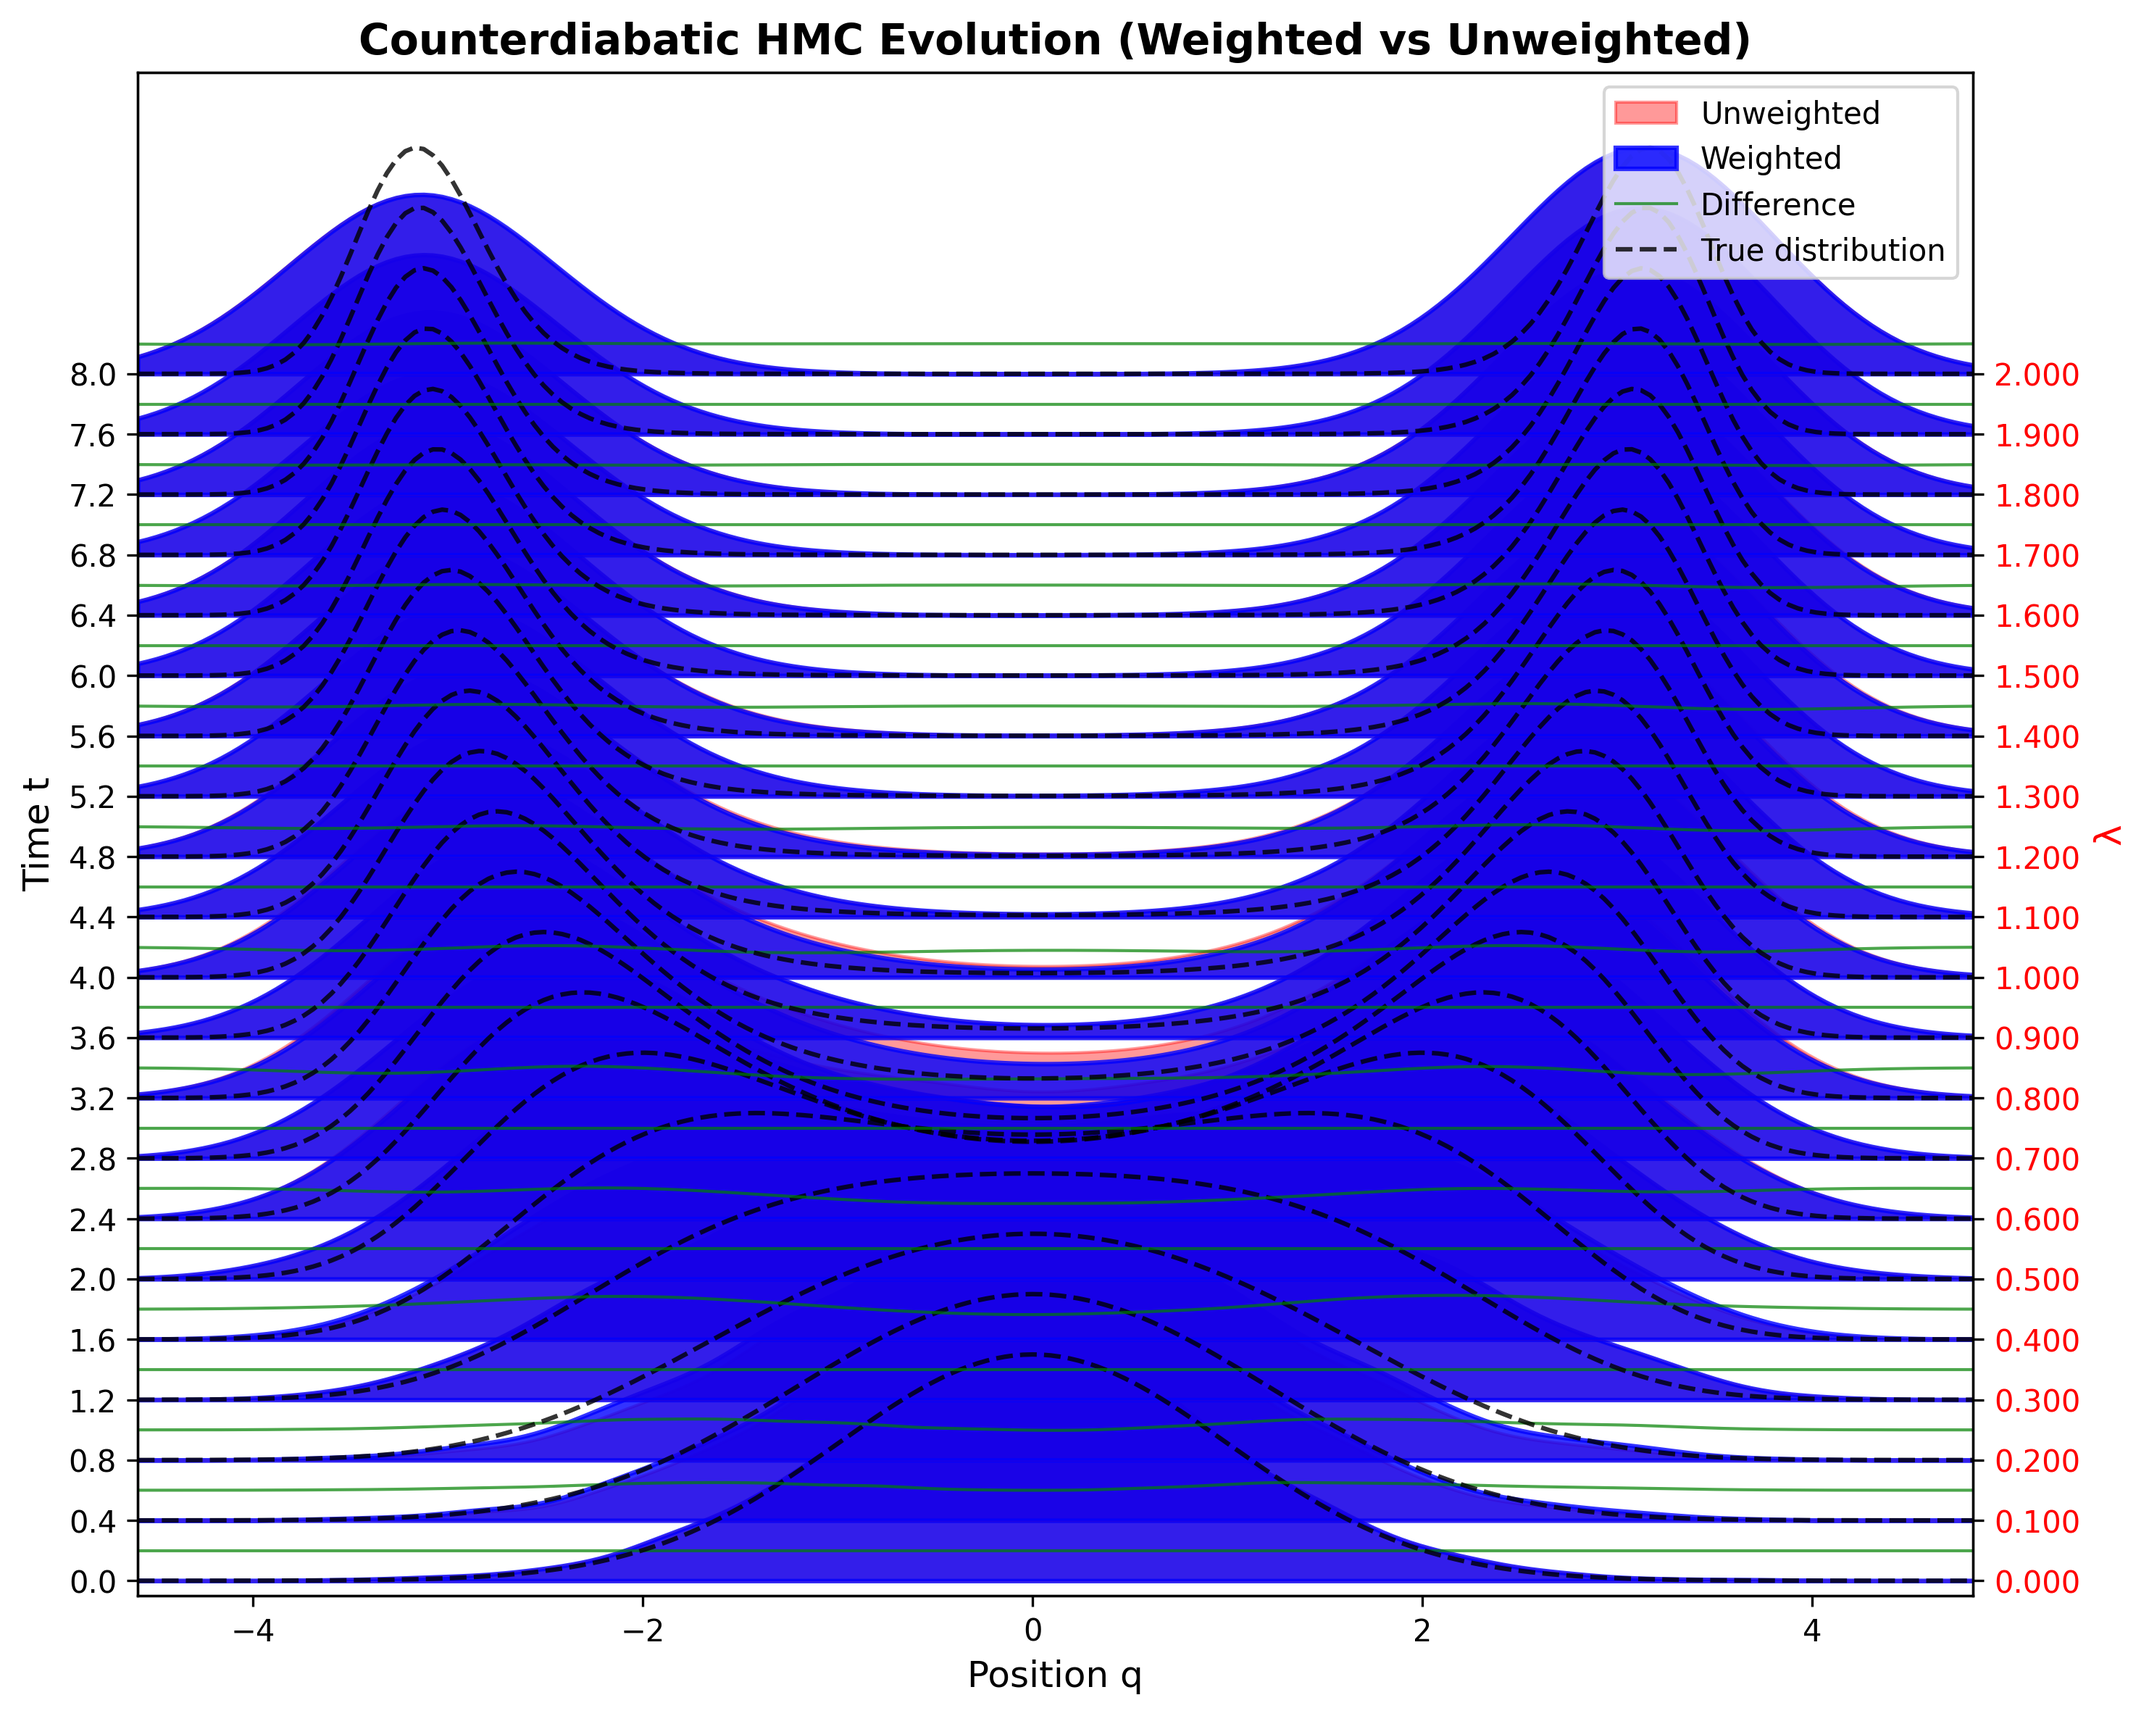
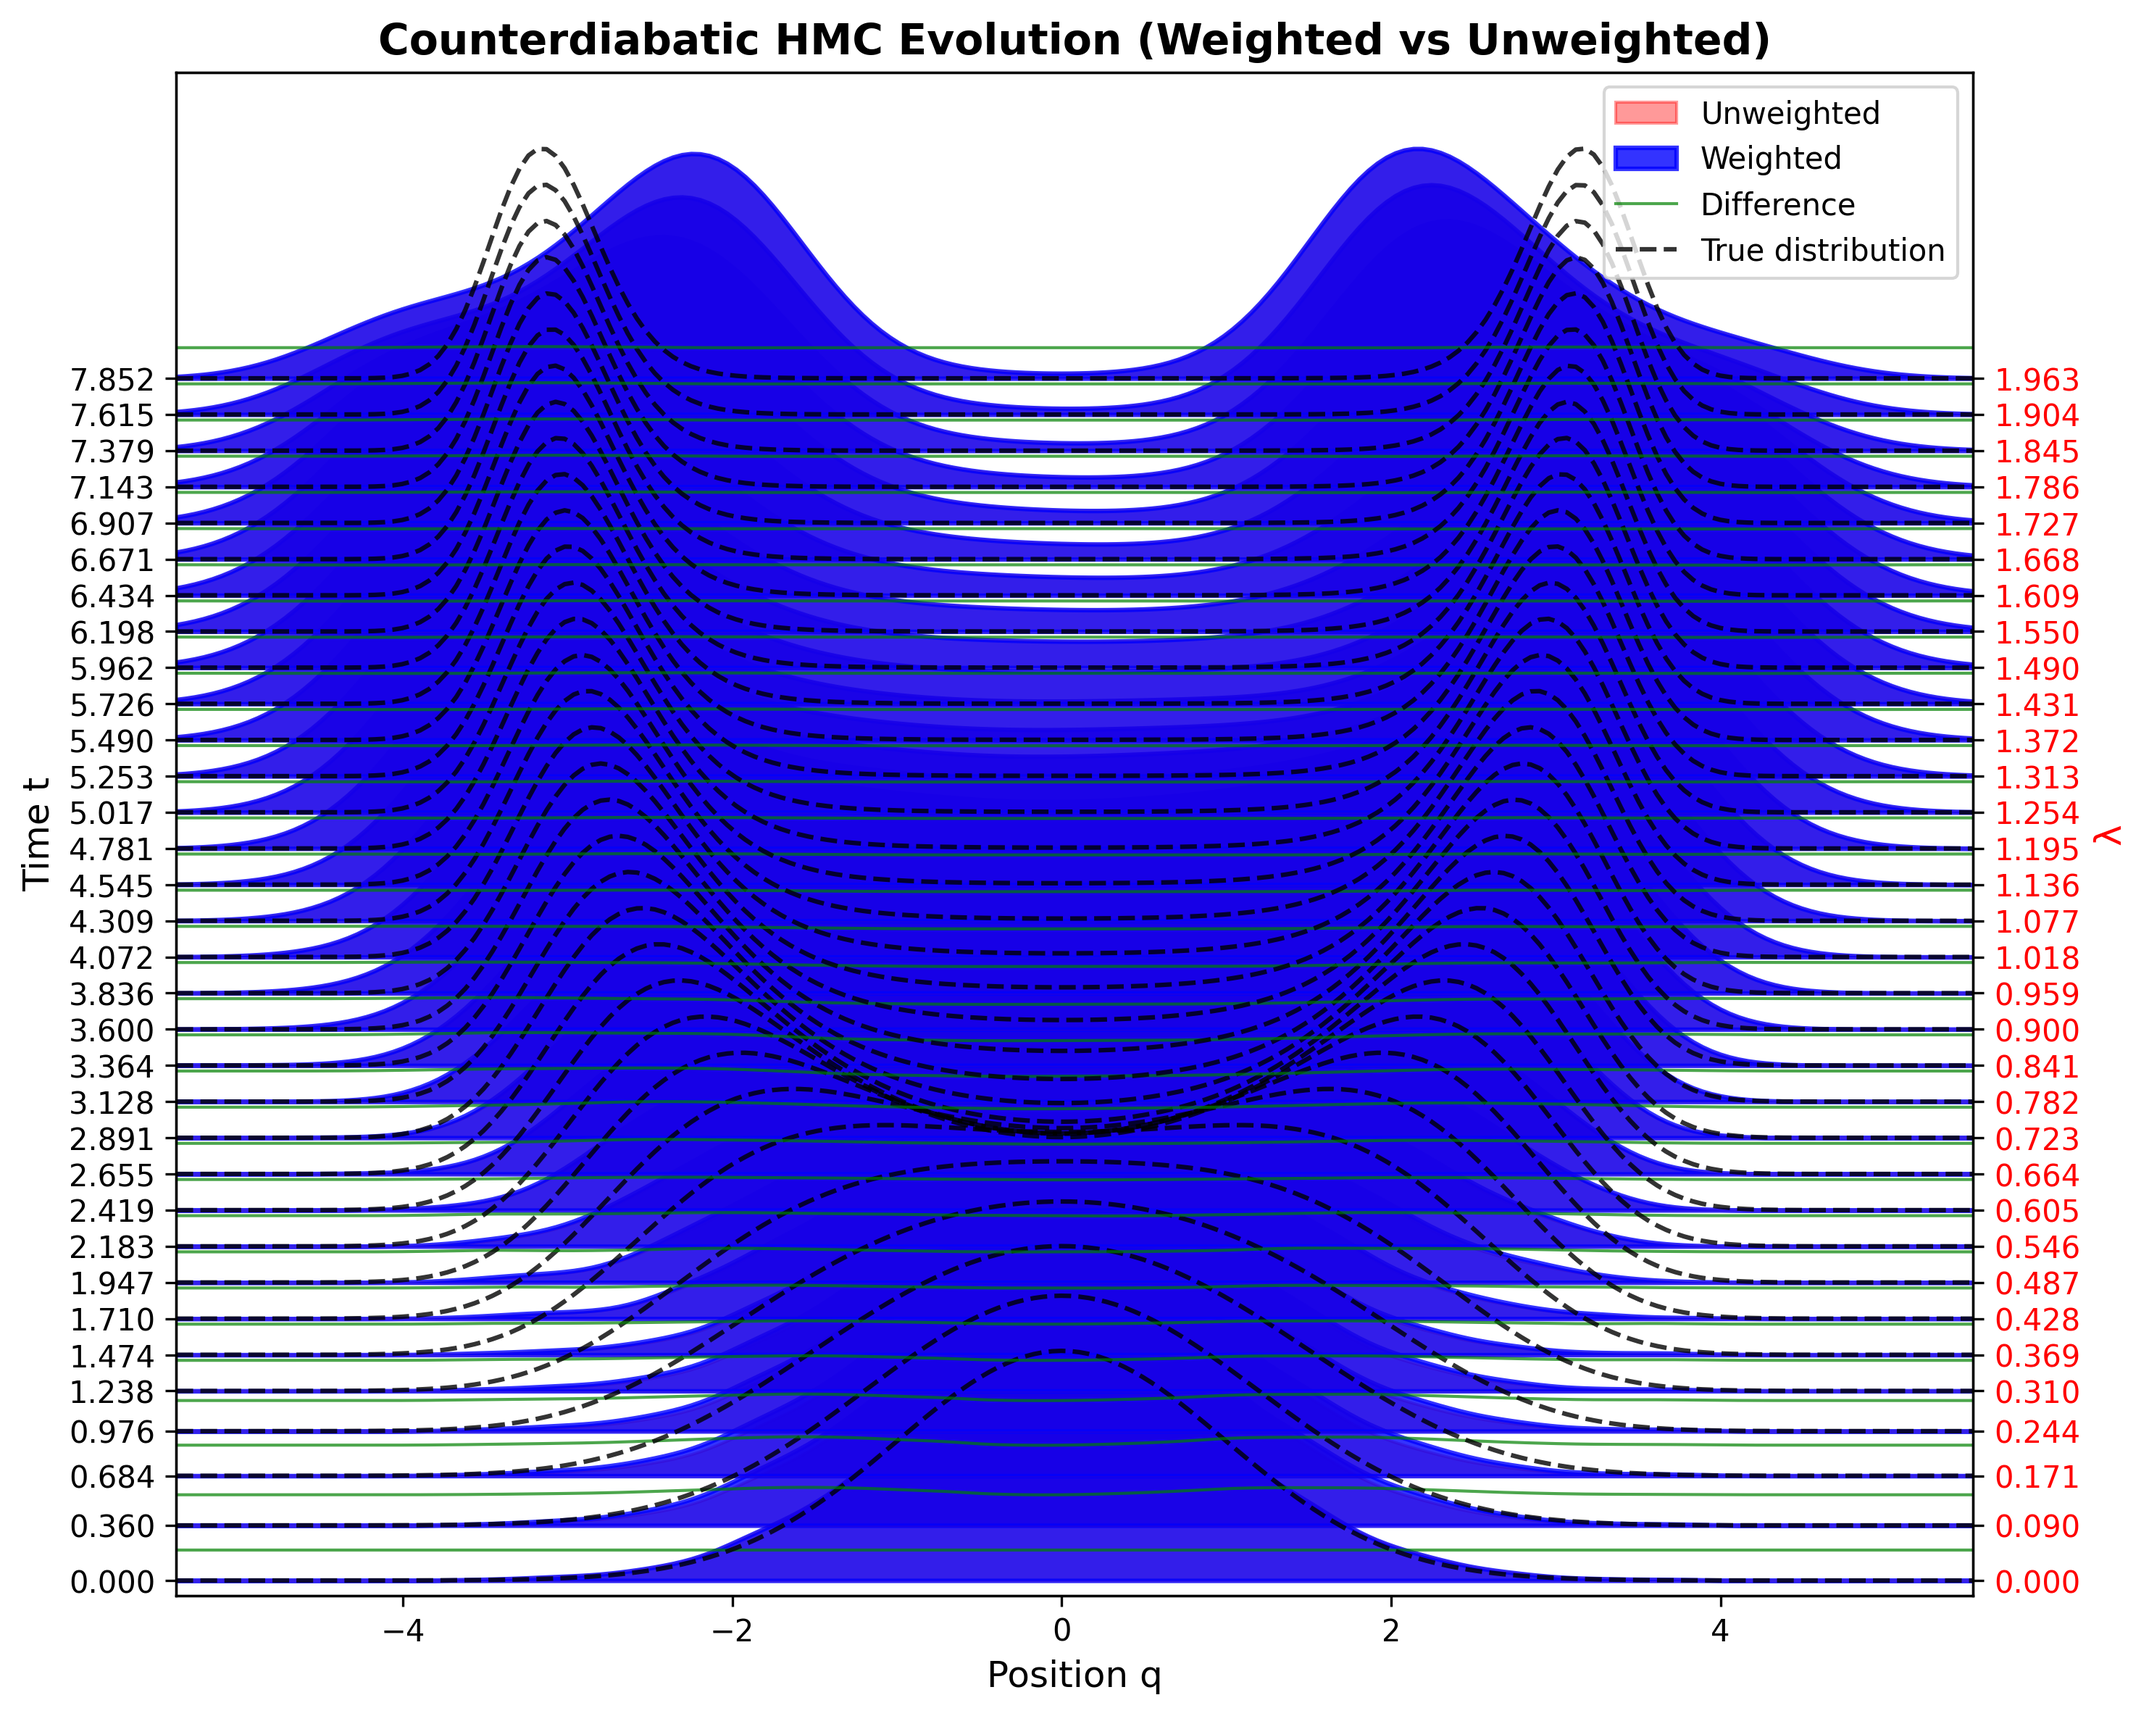
refactor

diff --git a/src/simulation.py b/src/simulation.py
@@ -41,6 +41,7 @@ def smc(
     dot_lam_fn, 
     key, 
     dim, 
+    final_time,
     A_ansatz=None, 
     fit_every=1, 
     num_iters=10000,
@@ -50,7 +51,7 @@ def smc(
     snapshot_every=1,
     adaptive_step_size=False, 
     integrator_type="leapfrog", 
-    equilibration_steps=0
+    equilibration_steps=0,
     ):
     """
     Unified simulation function that handles both naive HMC and counterdiabatic HMC.
@@ -88,7 +89,9 @@ def smc(
     
     snapshots, resampling_count, loss_histories, param_history, prev_H_vals, detailed_energy_stats, detailed_times, t_k, current_delta_t, log_weights, q, p = initialize(delta_t, M, make_T, make_V, key, dim, lam_fn)
     
-    for k in range(N_steps + 1):
+    for k in range(N_steps+1):
+
+    
            
         lam_k = float(lam_fn(t_k))
         dot_lam_k = float(dot_lam_fn(t_k))
@@ -105,19 +108,16 @@ def smc(
             check_nans("fitting_samples", samples, k)
             weights = jnp.exp(normalize_log_weights(log_weights))
             
-            A_ansatz, loss_history = fit_gauge_potential(lam_k, samples,
-                                        make_T=make_T, make_V=make_V,
-                                        A_ansatz=A_ansatz,  # Pass current ansatz for warm start
-                                        num_iters=num_iters, lr=learning_rate,
-                                        use_regularization=False, weights=weights)
+            A_ansatz, loss_history = fit_gauge_potential(
+                lam_k, samples,
+                make_T=make_T, make_V=make_V, A_ansatz=A_ansatz,  # Pass current ansatz for warm start
+                num_iters=num_iters, lr=learning_rate,
+                use_regularization=False, weights=weights)
             print(f"  Final loss: {loss_history[-1]:.6f}")
             if any(jnp.isnan(loss) for loss in loss_history):
                 print(f"⚠  NaN detected in loss history at step {k}")
-                nan_indices = [i for i, loss in enumerate(loss_history) if jnp.isnan(loss)]
-                print(f"  NaN losses at iterations: {nan_indices}")
             
             loss_histories.append(loss_history)
-            print(A_ansatz.params)
         
         # Compute energy statistics at every timestep
         stats = compute_energy_stats(q, p, lam_k, make_T, make_V, A_ansatz, log_weights)
@@ -192,7 +192,7 @@ def smc(
         
   
         if A_ansatz is None:
-            step = jax.vmap(lambda q, p, lam, lam_next, dot_lam, dot_lam_next, delta_t ,t: (make_leapfrog_step(make_T(lam), make_V(lam), make_T(lam_next), make_V(lam_next), lam_fn, dot_lam_fn))(q, p, delta_t), in_axes=(0, 0, None, None, None, None, None, None))
+            step = jax.vmap(lambda q, p, lam, lam_next, dot_lam, dot_lam_next, delta_t: (make_leapfrog_step(make_T(lam), make_V(lam), make_T(lam_next), make_V(lam_next), lam_fn, dot_lam_fn))(q, p, delta_t), in_axes=(0, 0, None, None, None, None, None))
         # TODO vvv
         # else:  # cd
              # Compute adaptive step size for CD if enabled (at beginning of step)
@@ -212,20 +212,37 @@ def smc(
              
             # Choose integrator based on integrator_type
         elif integrator_type == "leapfrog":
-                step = jax.vmap(lambda q, p, lam, lam_next, dot_lam, dot_lam_next, delta_t, t: (make_cd_leapfrog_step(make_T, make_V, A_ansatz, lam, lam_next, dot_lam, dot_lam_next, lam_fn, dot_lam_fn))(q=q, p=p, eps=delta_t, t=t), in_axes=(0, 0, None, None, None, None, None, None))
+                step = jax.vmap(lambda q, p, lam, lam_next, dot_lam, dot_lam_next, delta_t: (make_cd_leapfrog_step(make_T, make_V, A_ansatz, lam, lam_next, dot_lam, dot_lam_next, lam_fn, dot_lam_fn))(q=q, p=p, eps=delta_t), in_axes=(0, 0, None, None, None, None, None))
         elif integrator_type == "implicit_midpoint":
-                step = jax.vmap(lambda q, p, lam, lam_next, dot_lam, dot_lam_next, delta_t, t: (make_cd_implicit_midpoint_step(make_T, make_V, A_ansatz, lam, lam_next, dot_lam, dot_lam_next))(q=q, p=p, eps=delta_t, t=t), in_axes=(0, 0, None, None, None, None, None, None))
+                step = jax.vmap(lambda q, p, lam, lam_next, dot_lam, dot_lam_next, delta_t: (make_cd_implicit_midpoint_step(make_T, make_V, A_ansatz, lam, lam_next, dot_lam, dot_lam_next))(q=q, p=p, eps=delta_t), in_axes=(0, 0, None, None, None, None, None))
         else:
                 raise ValueError(f"Unknown integrator type: {integrator_type}. Must be 'leapfrog' or 'implicit_midpoint'")
+
+
+
+        while True:
         
-        q, p, step_weights = jax.jit(step)(q, p, lam_k, lam_k1, dot_lam_k, dot_lam_k1, current_delta_t, t_k)
+            q_new, p_new, step_weights = jax.jit(step)(q, p, lam_k, lam_k1, dot_lam_k, dot_lam_k1, current_delta_t)
+            avg_acc = jnp.mean(jnp.clip(jnp.exp(step_weights), 0, 1)).item()
+            # jax.debug.print("avg acc {x}", x=avg_acc)
+            print(f"  Step {k}: Avg acceptance = {avg_acc:.2f}")
+            # if avg_acc < 0.9:
+            if False:
+                print(f"  Step {k}: Acceptance rate too low, decreasing delta_t to {current_delta_t * 0.5:.6f}")
+                current_delta_t = current_delta_t * 0.9
+            else:
+                q,p = q_new, p_new
+                break
+
+
+        log_weights += step_weights
+        weights = jnp.exp(normalize_log_weights(log_weights))
+        ess = jnp.sum(weights)**2 / jnp.sum(weights ** 2)
+
 
         
 
         if use_weights: 
-            log_weights += step_weights
-            weights = jnp.exp(normalize_log_weights(log_weights))
-            ess = jnp.sum(weights)**2 / jnp.sum(weights ** 2)
              
             # Resample if ESS falls below threshold
             # if ess_threshold is not None: 
@@ -261,6 +278,8 @@ def smc(
          
         
         t_k += current_delta_t
+        if t_k >= final_time:
+            break
 
     return A_ansatz, snapshots, loss_histories, param_history
 

diff --git a/main.py b/main.py
@@ -20,17 +20,18 @@ def main():
     
     # ===== CONFIGURATION =====
     # Choose your system
-    system_name = "gaussian_annealing"  # Options: see SYSTEMS in src/
+    system_name = "double_well"  # Options: see SYSTEMS in src/
     # ansatz_type = 'polynomial' # Options: "polynomial", "neural_network", "analytic", "hermite"
     integrator_type = "leapfrog"  # Options: "leapfrog", "implicit_midpoint"
     ansatze = ['polynomial']
-    weightings = [False]
+    weightings = [True]
     
     # Simulation parameters
-    M = 4000  # Number of particles (reduced for testing)
-    N_steps = 20  # Number of simulation steps (reduced for testing)
-    delta_t = 0.2  # Time step (eps = delta_t for this algorithm)
-    momentum_refresh_interval = 2  # Momentum refresh interval
+    M = 40000  # Number of particles (reduced for testing)
+    N_steps = 3  # Number of simulation steps (reduced for testing)
+    delta_t = 1/3  # Time step (eps = delta_t for this algorithm)
+    final_time = 4.0
+    momentum_refresh_interval = 1000  # Momentum refresh interval
     fit_every = 1  # Fit ansatz every N steps
     num_iters = 100000  # Optimization iterations per step (reduced for testing)
     learning_rate = 1e-4  # Learning rate for optimization
@@ -80,6 +81,7 @@ def main():
         A_ansatz = ansatz_dict.get(ansatz_type)
         
         A_ansatz, snapshots, loss_histories, param_history = smc(
+            final_time=final_time,
             M=M, 
             N_steps=N_steps, 
             delta_t=delta_t, 

diff --git a/src/physics.py b/src/physics.py
@@ -203,7 +203,8 @@ def make_cd_leapfrog_step(make_T, make_V, A_ansatz, lam, lam_next, dot_lam, dot_
     dA_dq_scalar = jax.grad(A_ansatz, argnums=0)
     dA_dp_scalar = jax.grad(A_ansatz, argnums=1)
     
-    def cd_leapfrog(q, p, eps, t=None):
+    def cd_leapfrog(q, p, eps):
+        
         
         
         q, p = leapfrog(make_p_update(make_V(lam)), make_x_update(make_T(lam)), eps/2, q, p)

diff --git a/src/simple_benchmark.py b/src/simple_benchmark.py
@@ -8,8 +8,8 @@ import jax
 import jax.numpy as jnp
 import numpy as np
 import time
-from src.simulation import simulate
-from src.ansatze import PolynomialAnsatz
+# from src.simulation import simulate
+# from src.ansatze import PolynomialAnsatz
 from src.systems import get_system
 
 def calculate_normalized_error(samples, true_expectation, true_variance, f_func=None):
